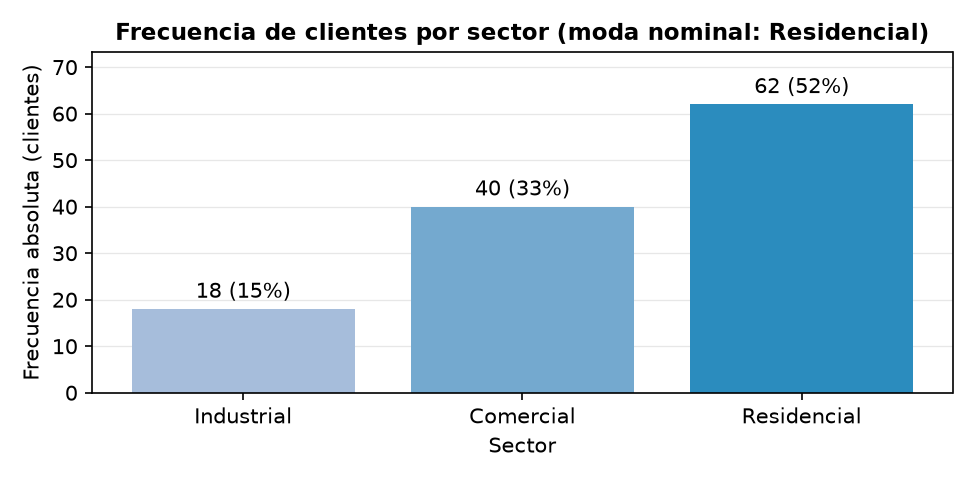
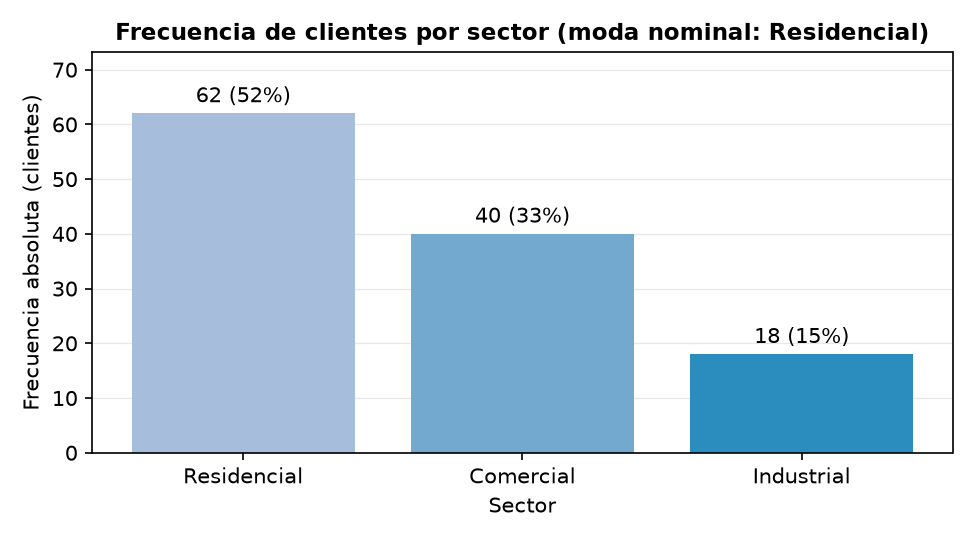
feat: improve the figures

diff --git a/utils/codes/descriptive_stats.py b/utils/codes/descriptive_stats.py
@@ -196,10 +196,14 @@ fig.tight_layout()
 fig.savefig(FIGURES_DIR / "freq_polygon_ogive.png")
 plt.close(fig)
 
-"""Barras de frecuencia absoluta por sector: distribución de la variable
-nominal, ordenada por magnitud y con etiquetas n (%)."""
-sector_freq = df["sector"].value_counts().sort_values()
-fig, ax = plt.subplots(figsize=(6.5, 3.2))
+"""Barras de frecuencia absoluta por sector con etiquetas n (%).
+
+Los sectores se ordenan por escala de consumo, no por frecuencia, para que
+todas las figuras del informe presenten las categorías en el mismo orden y
+puedan leerse en paralelo."""
+sector_order = ["Residencial", "Comercial", "Industrial"]
+sector_freq = df["sector"].value_counts().loc[sector_order]
+fig, ax = plt.subplots(figsize=(6.5, 3.6))
 bars = ax.bar(sector_freq.index, sector_freq.values,
               color=["#a6bddb", "#74a9cf", "#2b8cbe"])
 ax.bar_label(bars, labels=[f"{v} ({v/n:.0%})" for v in sector_freq.values], padding=3)
@@ -214,7 +218,6 @@ plt.close(fig)
 
 """Barras agrupadas media vs mediana por sector: la cercanía de ambas
 dentro de cada grupo evidencia simetría local pese a la asimetría global."""
-sector_order = ["Residencial", "Comercial", "Industrial"]
 central_plot = central.set_index("grupo").loc[sector_order]
 pos = np.arange(len(sector_order))
 width = 0.38
@@ -246,9 +249,12 @@ for patch, c in zip(bp["boxes"], ["#a6bddb", "#74a9cf", "#2b8cbe"]):
 sigma = dispersion.set_index("grupo").loc[sector_order, "desv_std"]
 means = central.set_index("grupo").loc[sector_order, "media"]
 ax.scatter(pos + 1, means, color="#d95f02", zorder=3, s=30, label="Media")
+# La sigma se rotula por encima de cada caja para no taparla.
+tope = [serie.max() for serie in data]
 for i, s in enumerate(sector_order):
-    ax.annotate(f"σ = {sigma[s]:,.0f}", (i + 1, means[s]),
-                xytext=(8, -4), textcoords="offset points", fontsize=8)
+    ax.annotate(f"σ = {sigma[s]:,.0f}", (i + 1, tope[i]), ha="center",
+                xytext=(0, 6), textcoords="offset points", fontsize=8)
+ax.set_ylim(0, max(tope) * 1.15)
 ax.set_title("Dispersión del consumo por sector (mediana, IQR, media y σ)")
 ax.set_xlabel("Sector")
 ax.set_ylabel("Consumo (kWh/mes)")

diff --git a/README.md b/README.md
@@ -27,19 +27,18 @@
 
 Laboratorio de **estadística descriptiva y visualización comparada** sobre un conjunto de datos simulado de consumo energético mensual de **120 clientes** de una empresa distribuidora (sectores Residencial, Comercial e Industrial). La semilla fija `default_rng(42)` reproduce exactamente las mismas 120 observaciones de las actividades anteriores, de modo que el foco puede ponerse en lo que esta actividad añade y no en volver a describir los datos.
 
-El proyecto responde a tres preguntas encadenadas:
+El proyecto responde a dos preguntas encadenadas:
 
-1. **¿Qué dicen los datos?** Exploración y manipulación con **pandas** (perfilado, variables derivadas, `groupby`, `pivot_table`) y estadística descriptiva completa: distribución de frecuencias por la **regla de Sturges**, medidas de **tendencia central**, de **dispersión** y de **forma**.
-2. **¿Cómo se dibujan?** Historia y **arquitectura en tres capas de Matplotlib** —backend, artistas y scripting—, documentada con figuras construidas por la propia librería, incluido un diagrama hecho solo con objetos `Artist`.
-3. **¿Con qué herramienta conviene dibujarlos?** Comparación medida de **seis herramientas** (Matplotlib, pandas.plot, seaborn, Plotly, R base y ggplot2) construyendo *el mismo gráfico* en todas y midiendo líneas de código, tiempo de renderizado y peso del archivo.
+1. **¿Qué dicen los datos?** Exploración y manipulación con **pandas** (perfilado, variables derivadas, `groupby`, `pivot_table`) y estadística descriptiva completa: distribución de frecuencias por la **regla de Sturges**, medidas de **tendencia central**, de **dispersión** y de **forma**, cada una traducida a su gráfico correspondiente.
+2. **¿Con qué herramienta conviene dibujarlos?** Comparación medida de **seis herramientas** (Matplotlib, pandas.plot, seaborn, Plotly, R base y ggplot2) construyendo *el mismo gráfico* en todas y midiendo líneas de código, tiempo de renderizado y peso del archivo.
 
-Todo el análisis estadístico se **verifica de forma cruzada en R**, que recalcula cada cifra de manera independiente y replica las figuras.
+Todo el análisis estadístico se **verifica de forma cruzada en R**, que recalcula cada cifra de manera independiente.
 
 ### Objetivos Principales
 
 - Explorar y manipular el conjunto de datos con pandas antes de graficarlo.
 - Construir la distribución de frecuencias e interpretar las medidas de tendencia central, dispersión y forma.
-- Explicar la arquitectura de Matplotlib y la anatomía de una figura, y usarlas para etiquetar correctamente cada gráfico.
+- Aplicar los principios de visualización a todas las figuras: título informativo, ejes con unidad, escala desde cero, cuadrícula sutil detrás de los datos, color funcional y etiquetas de dato.
 - Comparar herramientas de visualización con indicadores medidos y justificar, con esa evidencia, la elección de Matplotlib para este laboratorio.
 - Validar todo el cálculo mediante una implementación independiente en R.
 
@@ -63,7 +62,6 @@ Todo el análisis estadístico se **verifica de forma cruzada en R**, que recalc
 │       ├── freq_table.csv                        # Distribución de frecuencias: fi, Fi, hi %, Hi %
 │       ├── central_tendency.csv                  # Media, mediana y moda interpolada
 │       ├── dispersion.csv                        # Rango, varianza, σ, CV, IQR, asimetría, curtosis
-│       ├── backends.csv                          # Costo de exportar a PNG, SVG y PDF
 │       ├── comparativa_herramientas.csv          # Cuatro herramientas de Python medidas
 │       ├── comparativa_herramientas_r.csv        # R base y ggplot2 medidos
 │       └── comparativa_consolidada.csv           # Las seis herramientas en una sola tabla
@@ -75,42 +73,39 @@ Todo el análisis estadístico se **verifica de forma cruzada en R**, que recalc
 │           └── figures/
 │               ├── python/
 │               │   ├── statistics/               # 5 figuras estadísticas (Matplotlib)
-│               │   ├── architecture/             # 4 figuras de arquitectura + demos de backend
 │               │   └── tools/                    # 4 gráficos comparados + 2 resúmenes + HTML interactivo
 │               └── r/
-│                   ├── statistics/               # 5 réplicas en R base
+│                   ├── statistics/               # 2 réplicas en R base
 │                   └── tools/                    # R base y ggplot2 sobre el mismo gráfico
 └── utils/
     └── codes/
         ├── exploration.py                        # Fase 1 · dataset y exploración con pandas
         ├── descriptive_stats.py                  # Fase 2 · estadística descriptiva y figuras
-        ├── architecture.py                       # Fase 3 · arquitectura de Matplotlib
-        ├── descriptive_stats.R                   # Fase 4 · verificación cruzada en R
-        ├── benchmark.R                           # Fase 5 · R base frente a ggplot2
-        └── benchmark.py                          # Fase 6 · comparación de herramientas y consolidado
+        ├── descriptive_stats.R                   # Fase 3 · verificación cruzada en R
+        ├── benchmark.R                           # Fase 4 · R base frente a ggplot2
+        └── benchmark.py                          # Fase 5 · comparación de herramientas y consolidado
 ```
 
 ---
 
 ## 🧪 Pipeline del Laboratorio
 
-El flujo es **secuencial**: la Fase 1 crea el dataset que consumen todas las demás, y la Fase 6 cierra el circuito uniendo sus mediciones con las de R.
+El flujo es **secuencial**: la Fase 1 crea el dataset que consumen todas las demás, y la Fase 5 cierra el circuito uniendo sus mediciones con las de R.
 
 | Fase | Script | Qué produce |
 |---|---|---|
 | 1 | [`exploration.py`](utils/codes/exploration.py) | Dataset y cuatro tablas de exploración con pandas |
 | 2 | [`descriptive_stats.py`](utils/codes/descriptive_stats.py) | Frecuencias, tendencia central, dispersión y 5 figuras |
-| 3 | [`architecture.py`](utils/codes/architecture.py) | 4 figuras sobre Matplotlib y la medición de backends |
-| 4 | [`descriptive_stats.R`](utils/codes/descriptive_stats.R) | Recálculo independiente en R y 5 réplicas gráficas |
-| 5 | [`benchmark.R`](utils/codes/benchmark.R) | Medición de R base y ggplot2 |
-| 6 | [`benchmark.py`](utils/codes/benchmark.py) | Medición de las 4 herramientas de Python y consolidado de las 6 |
+| 3 | [`descriptive_stats.R`](utils/codes/descriptive_stats.R) | Recálculo independiente en R y 2 réplicas gráficas |
+| 4 | [`benchmark.R`](utils/codes/benchmark.R) | Medición de R base y ggplot2 |
+| 5 | [`benchmark.py`](utils/codes/benchmark.py) | Medición de las 4 herramientas de Python y consolidado de las 6 |
 
 **Características clave:**
 
 - **Reproducibilidad:** semilla fija (`default_rng(42)`); cualquier ejecución produce las mismas 120 observaciones y las mismas tablas.
-- **Comparación honesta:** las seis implementaciones dibujan la *misma* especificación gráfica (título, ejes rotulados, etiquetas de dato, misma paleta y mismo tamaño en píxeles) y se cronometran con una pasada de calentamiento más cinco medidas, de las que se reporta la mediana.
+- **Comparación honesta:** las seis implementaciones dibujan la *misma* especificación gráfica —título, ejes rotulados, etiquetas de dato, misma paleta, cuadrícula sutil sobre el eje de magnitudes y mismo tamaño en píxeles— y se cronometran con una pasada de calentamiento más cinco medidas, de las que se reporta la mediana.
 - **Estilo idiomático:** cada herramienta se escribe como su comunidad la escribe. Redactarlas todas al estilo de Matplotlib habría falseado el conteo de líneas de código.
-- **Verificación cruzada:** R recalcula las ocho clases de Sturges, la moda interpolada y todos los estadísticos, y coincide **dígito a dígito** con las tablas de Python.
+- **Verificación cruzada:** R recalcula las ocho clases de Sturges, la moda interpolada y todos los estadísticos —incluidas asimetría y curtosis con la misma corrección muestral— y coincide **dígito a dígito** con las tablas de Python.
 - **Rutas:** Python resuelve las suyas desde la ubicación del script (`Path(__file__)`); R usa rutas relativas a la raíz del proyecto, así que debe ejecutarse desde ahí.
 
 ---
@@ -135,7 +130,7 @@ El resto de entradas de [`requirements.txt`](requirements.txt) son dependencias 
 ### R
 
 - **R 4.x** (probado en 4.6.1), con **ggplot2 4.0.3** para la fase comparativa: `install.packages("ggplot2")`.
-- Los dispositivos PNG se abren con `type = "cairo"` para obtener texto antialiasado a 150 ppp.
+- Los dispositivos PNG se abren con `type = "cairo"` para obtener texto antialiasado.
 - Editor: RStudio Desktop o VS Code con la extensión **R** (REditorSupport) + `languageserver`.
 
 ---
@@ -150,16 +145,15 @@ py -3.14 -m venv venv           # o `python -m venv venv` si 3.14 ya es el inté
 source venv/Scripts/activate    # Git Bash (en PowerShell: venv\Scripts\activate)
 pip install -r requirements.txt
 
-# 2. Fases 1 a 3: datos, estadística y arquitectura
+# 2. Fases 1 y 2: datos y estadística descriptiva
 python utils/codes/exploration.py
 python utils/codes/descriptive_stats.py
-python utils/codes/architecture.py
 
-# 3. Fases 4 y 5: verificación cruzada y medición en R
+# 3. Fases 3 y 4: verificación cruzada y medición en R
 Rscript utils/codes/descriptive_stats.R
 Rscript utils/codes/benchmark.R
 
-# 4. Fase 6: comparación de herramientas y consolidado final
+# 4. Fase 5: comparación de herramientas y consolidado final
 python utils/codes/benchmark.py
 ```
 
@@ -169,7 +163,24 @@ Si `Rscript` no está en el `PATH` de Git Bash, añádelo a la sesión antes del
 export PATH="/c/Program Files/R/R-4.6.1/bin/x64:$PATH"
 ```
 
-> ℹ La Fase 6 debe ejecutarse **después** de la Fase 5: es la que une las mediciones de ambos lenguajes en `comparativa_consolidada.csv`. Si se corre antes, avisa por consola y genera solo el comparativo de Python.
+> ℹ La Fase 5 debe ejecutarse **después** de la Fase 4: es la que une las mediciones de ambos lenguajes en `comparativa_consolidada.csv`. Si se corre antes, avisa por consola y genera solo el comparativo de Python.
+
+---
+
+## 🎨 Principios de Visualización Aplicados
+
+Todas las figuras del laboratorio —las de Python, las de R y las seis de la comparación— cumplen la misma especificación, derivada de que el ojo compara posiciones y longitudes con mucha más precisión que áreas, ángulos o intensidades de color:
+
+| Principio | Cómo se aplica |
+|---|---|
+| **Título informativo** | Enuncia el hallazgo, no solo el nombre de la variable |
+| **Ejes rotulados con unidad** | La figura se entiende sin leer el texto que la acompaña |
+| **Escala desde cero** | La altura de cada barra es proporcional a la cantidad que representa |
+| **Cuadrícula sutil y detrás** | `axes.axisbelow`, α = 0,3 y solo sobre el eje de magnitudes: ayuda a leer valores sin competir con los datos |
+| **Color funcional** | Distingue categorías o resalta una medida; nunca decora |
+| **Etiquetas de dato** | Evitan al lector estimar valores a ojo |
+
+En las barras horizontales la cuadrícula se traslada al eje X y el orden se invierte, de modo que el mejor valor quede arriba, donde se lee primero.
 
 ---
 
@@ -196,37 +207,6 @@ El sector Industrial es **15 % de los clientes y casi la mitad de la energía**,
 
 ---
 
-## 📐 Fase 3 · Arquitectura de Matplotlib
-
-Matplotlib nació en 2003: **John D. Hunter**, neurobiólogo, necesitaba graficar señales de electrocorticografía en Python con una sintaxis familiar para quien venía de MATLAB. Esa herencia explica su diseño actual, organizado en tres capas que se pueden usar por separado.
-
-<div align="center">
-    <img src="public/assets/images/figures/python/architecture/linea_tiempo_matplotlib.png" width="880" alt="Línea de tiempo de Matplotlib">
-</div>
-
-<div align="center">
-    <img src="public/assets/images/figures/python/architecture/arquitectura_capas.png" width="880" alt="Arquitectura en capas de Matplotlib">
-</div>
-
-**Las tres capas** — el diagrama anterior está dibujado únicamente con objetos `Artist` (`FancyBboxPatch`, `FancyArrowPatch` y `Text`): es a la vez la explicación y la demostración de la capa intermedia.
-
-| | |
-|---|---|
-| ![Anatomía de una figura](public/assets/images/figures/python/architecture/anatomia_figura.png) | ![Scripting frente a artistas](public/assets/images/figures/python/architecture/capas_scripting_vs_artist.png) |
-| **Anatomía de una figura** — nombrar bien cada componente (Figure, Axes, Axis, Line2D, spines, ticks, legend) es lo que permite etiquetar con precisión y leer la documentación sin tropiezos | **Dos caminos, un mismo gráfico** — a la izquierda `pyplot` con su estado global; a la derecha, las mismas barras armadas como objetos `Rectangle` y `Text`. Son idénticos porque el primero termina haciendo lo del segundo |
-
-**La capa de backend, medida:** la misma figura exportada con tres backends distintos.
-
-| Formato | Backend | Tipo | Tiempo (ms) | Peso (KB) |
-|---|---|---|---|---|
-| PNG | Agg (Anti-Grain Geometry) | Rasterizado a 150 ppp | 34,8 | 26,2 |
-| SVG | SVG | Vectorial, texto editable | 25,3 | 36,7 |
-| PDF | PDF | Vectorial, listo para imprimir | 38,1 | 19,2 |
-
-El laboratorio entrega **PNG** porque se incrusta sin fricción en el informe y en este README; SVG y PDF serían preferibles si las figuras tuvieran que ampliarse o editarse después.
-
----
-
 ## 🖼 Galería de Figuras
 
 ### Distribución de frecuencias y tendencia central (Python · Matplotlib)
@@ -240,7 +220,7 @@ El laboratorio entrega **PNG** porque se incrusta sin fricción en el informe y 
     <img src="public/assets/images/figures/python/statistics/freq_polygon_ogive.png" width="820" alt="Polígono de frecuencias y ojiva">
 </div>
 
-**Polígono de frecuencias y ojiva** — dos lecturas de la misma tabla: la puntual (marca de clase vs. fi) y la acumulada (límite superior vs. Hi %), donde el corte con el 50 % localiza gráficamente la mediana.
+**Polígono de frecuencias y ojiva** — dos lecturas de la misma tabla: la puntual (marca de clase vs. fi) y la acumulada (límite superior vs. Hi %), donde el corte con el 50 % localiza gráficamente la mediana. Son las dos únicas figuras con cuadrícula en ambos ejes, porque aquí el eje X sí es continuo.
 
 ### Dispersión y comparación entre sectores (Python · Matplotlib)
 
@@ -251,46 +231,38 @@ El laboratorio entrega **PNG** porque se incrusta sin fricción en el informe y 
 
 ### Réplica en R (graficación base)
 
-Las cinco figuras de Matplotlib tienen su equivalente en graficación base de R, construidas sobre estadísticos recalculados de forma independiente.
+R recalcula todos los estadísticos de forma independiente y replica las dos figuras que sostienen el análisis. La cuadrícula se traza en **dos pasadas** —marco sin relleno, cuadrícula, barras encima— porque la graficación base no tiene un equivalente a `axisbelow`.
 
 | | |
 |---|---|
-| ![Histograma en R](public/assets/images/figures/r/statistics/hist_sturges_central_tendency.png) | ![Barras de frecuencia en R](public/assets/images/figures/r/statistics/bar_freq_by_sector.png) |
-| **Histograma de Sturges** — mismas 8 clases y mismas medidas de posición | **Frecuencia por sector** — n (%) sobre cada barra |
-| ![Media y mediana en R](public/assets/images/figures/r/statistics/bar_mean_median_by_sector.png) | ![Boxplot en R](public/assets/images/figures/r/statistics/boxplot_dispersion_by_sector.png) |
-| **Media vs. mediana** — `barplot(beside = TRUE)` sobre `tapply` | **Dispersión por sector** — caja, media y σ |
-
-<div align="center">
-    <img src="public/assets/images/figures/r/statistics/freq_polygon_ogive.png" width="820" alt="Polígono de frecuencias y ojiva en R">
-</div>
-
-**Polígono de frecuencias y ojiva en R** — dos paneles con `par(mfrow = c(1, 2))`; la misma lectura puntual y acumulada de la tabla de frecuencias recalculada con `hist(..., plot = FALSE)$counts`.
+| ![Histograma en R](public/assets/images/figures/r/statistics/hist_sturges_central_tendency.png) | ![Boxplot en R](public/assets/images/figures/r/statistics/boxplot_dispersion_by_sector.png) |
+| **Histograma de Sturges** — mismas 8 clases y mismas medidas de posición | **Dispersión por sector** — caja, media y σ |
 
 ---
 
 ## ⚖ Comparación de Herramientas de Visualización
 
-Las seis herramientas dibujan **el mismo gráfico**: consumo medio por sector, con título, ejes rotulados, etiquetas de dato y la misma paleta, a 975 × 555 px.
+Las seis herramientas dibujan **el mismo gráfico**: consumo medio por sector, con título, ejes rotulados, etiquetas de dato, cuadrícula sutil y la misma paleta, a 975 × 555 px. Fijar la especificación es lo que permite atribuir las diferencias a la herramienta y no al gráfico.
 
 | | |
 |---|---|
 | ![Matplotlib](public/assets/images/figures/python/tools/bar_matplotlib.png) | ![pandas.plot](public/assets/images/figures/python/tools/bar_pandas.png) |
 | **Matplotlib** — cada elemento se declara explícitamente | **pandas.plot** — el gráfico sale del propio DataFrame |
 | ![seaborn](public/assets/images/figures/python/tools/bar_seaborn.png) | ![Plotly](public/assets/images/figures/python/tools/bar_plotly.png) |
-| **seaborn** — agrega la media por sector sin que se le pida | **Plotly** — otros valores por defecto: sin cuadrícula y etiquetas dentro de la barra |
+| **seaborn** — agrega la media por sector sin que se le pida | **Plotly** — mete las etiquetas dentro de la barra y necesita declarar la cuadrícula a mano |
 | ![R base](public/assets/images/figures/r/tools/bar_r_base.png) | ![ggplot2](public/assets/images/figures/r/tools/bar_r_ggplot2.png) |
-| **R base** — dibujo por pasos sobre un dispositivo abierto | **ggplot2** — el gráfico se declara como suma de capas |
+| **R base** — dibujo por pasos; la cuadrícula cuesta una pasada extra | **ggplot2** — el gráfico se declara como suma de capas |
 
 ### Resultados medidos
 
 | Ecosistema | Herramienta | Versión | Paradigma | Motor de render | Interactivo | Líneas | Tiempo (ms) | Peso (KB) |
 |---|---|---|---|---|---|---|---|---|
-| Python | **Matplotlib** | 3.11.1 | Imperativa (orientada a objetos) | Agg / propio | No | 10 | 75,9 | 29,5 |
-| Python | pandas.plot | 3.0.5 | Imperativa (método del DataFrame) | Matplotlib | No | 9 | 77,7 | 29,2 |
-| Python | seaborn | 0.13.2 | Declarativa (gramática estadística) | Matplotlib | No | 9 | 83,6 | 27,0 |
-| Python | Plotly | 6.9.0 | Declarativa (Plotly Express) | JavaScript (D3) / Kaleido | **Sí** | **6** | 1 573,5 | 25,9 |
-| R | R base (graphics) | 4.6.1 | Imperativa (dibujo por pasos) | grDevices / Cairo | No | 7 | **12,0** | 10,5 |
-| R | ggplot2 | 4.0.3 | Declarativa (gramática de gráficos) | grid / Cairo | No | 12 | 146,0 | 10,1 |
+| Python | **Matplotlib** | 3.11.1 | Imperativa (orientada a objetos) | Agg / propio | No | 10 | 78,2 | 29,4 |
+| Python | pandas.plot | 3.0.5 | Imperativa (método del DataFrame) | Matplotlib | No | 9 | 82,9 | 29,6 |
+| Python | seaborn | 0.13.2 | Declarativa (gramática estadística) | Matplotlib | No | 9 | 84,3 | 27,2 |
+| Python | Plotly | 6.9.0 | Declarativa (Plotly Express) | JavaScript (D3) / Kaleido | **Sí** | **7** | 1 807,7 | 26,5 |
+| R | R base (graphics) | 4.6.1 | Imperativa (dibujo por pasos) | grDevices / Cairo | No | 8 | **12,4** | 11,1 |
+| R | ggplot2 | 4.0.3 | Declarativa (gramática de gráficos) | grid / Cairo | No | 13 | 153,2 | 8,8 |
 
 <div align="center">
     <img src="public/assets/images/figures/python/tools/comparativa_consolidada.png" width="900" alt="Comparativa consolidada de las seis herramientas">
@@ -300,19 +272,20 @@ Las seis herramientas dibujan **el mismo gráfico**: consumo medio por sector, c
 
 ### Lectura de los resultados
 
-- **Brevedad y velocidad no van juntas.** Plotly escribe el gráfico en **6 líneas** pero tarda **1 574 ms** en exportarlo a PNG: su motor real es JavaScript y necesita un navegador (Kaleido) para producir una imagen estática. Es **21 veces más lento** que Matplotlib para el mismo resultado.
-- **pandas y seaborn no son alternativas a Matplotlib, son fachadas suyas.** Ambos renderizan *con* Matplotlib; su ventaja es escribir menos, y su costo, un tiempo ligeramente mayor y menos control sobre el detalle fino.
-- **R base es el más rápido de los seis** (12 ms) y produce archivos tres veces más livianos, pero cada elemento —cuadrícula, etiquetas, límites— se ajusta a mano, y eso no aparece en el conteo de líneas de un gráfico sencillo.
+- **Brevedad y velocidad no van juntas.** Plotly escribe el gráfico en **7 líneas** —las menos de las seis— pero tarda **1 808 ms** en exportarlo a PNG: su motor real es JavaScript y necesita un navegador (Kaleido) para producir una imagen estática. Es **23 veces más lento** que Matplotlib para el mismo resultado.
+- **pandas y seaborn no son alternativas a Matplotlib, son fachadas suyas.** Ambos renderizan *con* Matplotlib; su ventaja es escribir menos, y su costo, un tiempo ligeramente mayor y menos control sobre el detalle fino. Se nota en la cuadrícula: la heredan gratis de los `rcParams`, mientras que Plotly y R base tienen que declararla.
+- **R base es el más rápido de los seis** (12,4 ms) y produce archivos casi tres veces más livianos, pero cada elemento —cuadrícula, etiquetas, límites— se ajusta a mano; de hecho es la única herramienta que necesita dibujar el gráfico dos veces para que la cuadrícula quede detrás de los datos.
 - **La interactividad es la única ventaja que no se mide en segundos.** Plotly es el único que entrega un gráfico navegable ([`bar_plotly_interactivo.html`](public/assets/images/figures/python/tools/bar_plotly_interactivo.html)), y ese, no la brevedad, es su argumento frente a Matplotlib.
 
 ### Justificación de la elección
 
 Este laboratorio produce **figuras estáticas de alta densidad informativa para un informe impreso**, y bajo ese requisito se eligió **Matplotlib**:
 
-1. **Control total sobre la anotación.** Superponer media, mediana y moda en un histograma, o rotular σ sobre un diagrama de caja, exige alcanzar artistas individuales. Las fachadas declarativas facilitan el gráfico típico y estorban en el atípico.
-2. **Costo bajo y predecible.** 76 ms por figura y ningún motor externo; Plotly requiere un navegador instalado, lo que rompe la reproducibilidad del laboratorio.
-3. **Es el sustrato común.** Elegir Matplotlib no descarta pandas ni seaborn: ambos siguen disponibles porque terminan devolviendo un objeto `Axes` que se puede seguir refinando con la API de Matplotlib.
-4. **Paridad con R.** La graficación base de R replica cualquier figura de Matplotlib sin dependencias adicionales, lo que hace posible la verificación cruzada.
+1. **Control total sobre la anotación.** Superponer media, mediana y moda en un histograma, o rotular σ sobre un diagrama de caja, exige alcanzar artistas individuales. Las fachadas declarativas facilitan el gráfico típico y estorban en el atípico, y casi todas las figuras de este laboratorio son atípicas.
+2. **Costo bajo y predecible.** 78 ms por figura y ningún motor externo; Plotly requiere un navegador instalado, lo que rompe la reproducibilidad del laboratorio.
+3. **Una capa de estilo reutilizable.** Un único bloque de `rcParams` impone los principios de visualización a todas las figuras a la vez —y de paso a las de pandas y seaborn—, en lugar de repetir los ajustes gráfico por gráfico.
+4. **Es el sustrato común.** Elegir Matplotlib no descarta pandas ni seaborn: ambos siguen disponibles porque terminan devolviendo un objeto `Axes` que se puede seguir refinando con la API de Matplotlib.
+5. **Paridad con R.** La graficación base de R replica cualquier figura de Matplotlib sin dependencias adicionales, lo que hace posible la verificación cruzada.
 
 Las herramientas descartadas **no son peores, son para otro problema**: Plotly gana en tableros web, seaborn en exploración estadística rápida y ggplot2 en composiciones por capas dentro de R. Fuera del código, **Power BI y Tableau** resolverían la distribución del resultado a usuarios de negocio, pero no la reproducibilidad ni el control de versiones que exige un laboratorio académico.
 
@@ -348,13 +321,13 @@ La primera clase concentra el **54,2 %** de los clientes y el 76,7 % acumulado e
 - **Asimetría positiva marcada a nivel global:** la moda interpolada (409,6) y la mediana (378,6) caen ambas dentro de la primera clase, mientras la media (819,1) se desplaza hacia la cola derecha. El coeficiente de asimetría (**1,85**) pone número a lo que el histograma muestra: la media global **no representa a ningún cliente típico**; la mediana es el resumen honesto.
 - **La heterogeneidad es entre sectores, no dentro de ellos:** el CV global (**106,7 %**) cuadruplica el de cualquier sector individual (23,6 %–25,9 %). Lo que dispara la dispersión total es la diferencia de **escala** entre grupos (248 → 878 → 2 654 kWh), no la variabilidad interna.
 - **Simetría local:** dentro de cada sector la media y la mediana difieren menos del 4 %, y sus asimetrías son casi nulas (0,63, 0,02 y 0,14), coherente con la generación normal por grupo.
-- **Verificación cruzada:** Python y R producen las mismas 8 clases, las mismas frecuencias y los mismos estadísticos **dígito a dígito**.
+- **Verificación cruzada:** Python y R producen las mismas 8 clases, las mismas frecuencias y los mismos estadísticos **dígito a dígito**, incluidas asimetría y curtosis.
 
 ---
 
 ## 🔑 Palabras Clave
 
-`Visualización de Datos` · `Matplotlib` · `Arquitectura en Capas` · `pandas` · `seaborn` · `Plotly` · `ggplot2` · `R` · `Estadística Descriptiva` · `Regla de Sturges` · `Comparación de Herramientas` · `Ciencia de Datos` · `Python`
+`Visualización de Datos` · `Matplotlib` · `pandas` · `seaborn` · `Plotly` · `ggplot2` · `R` · `Estadística Descriptiva` · `Regla de Sturges` · `Comparación de Herramientas` · `Principios de Visualización` · `Ciencia de Datos` · `Python`
 
 ---
 
